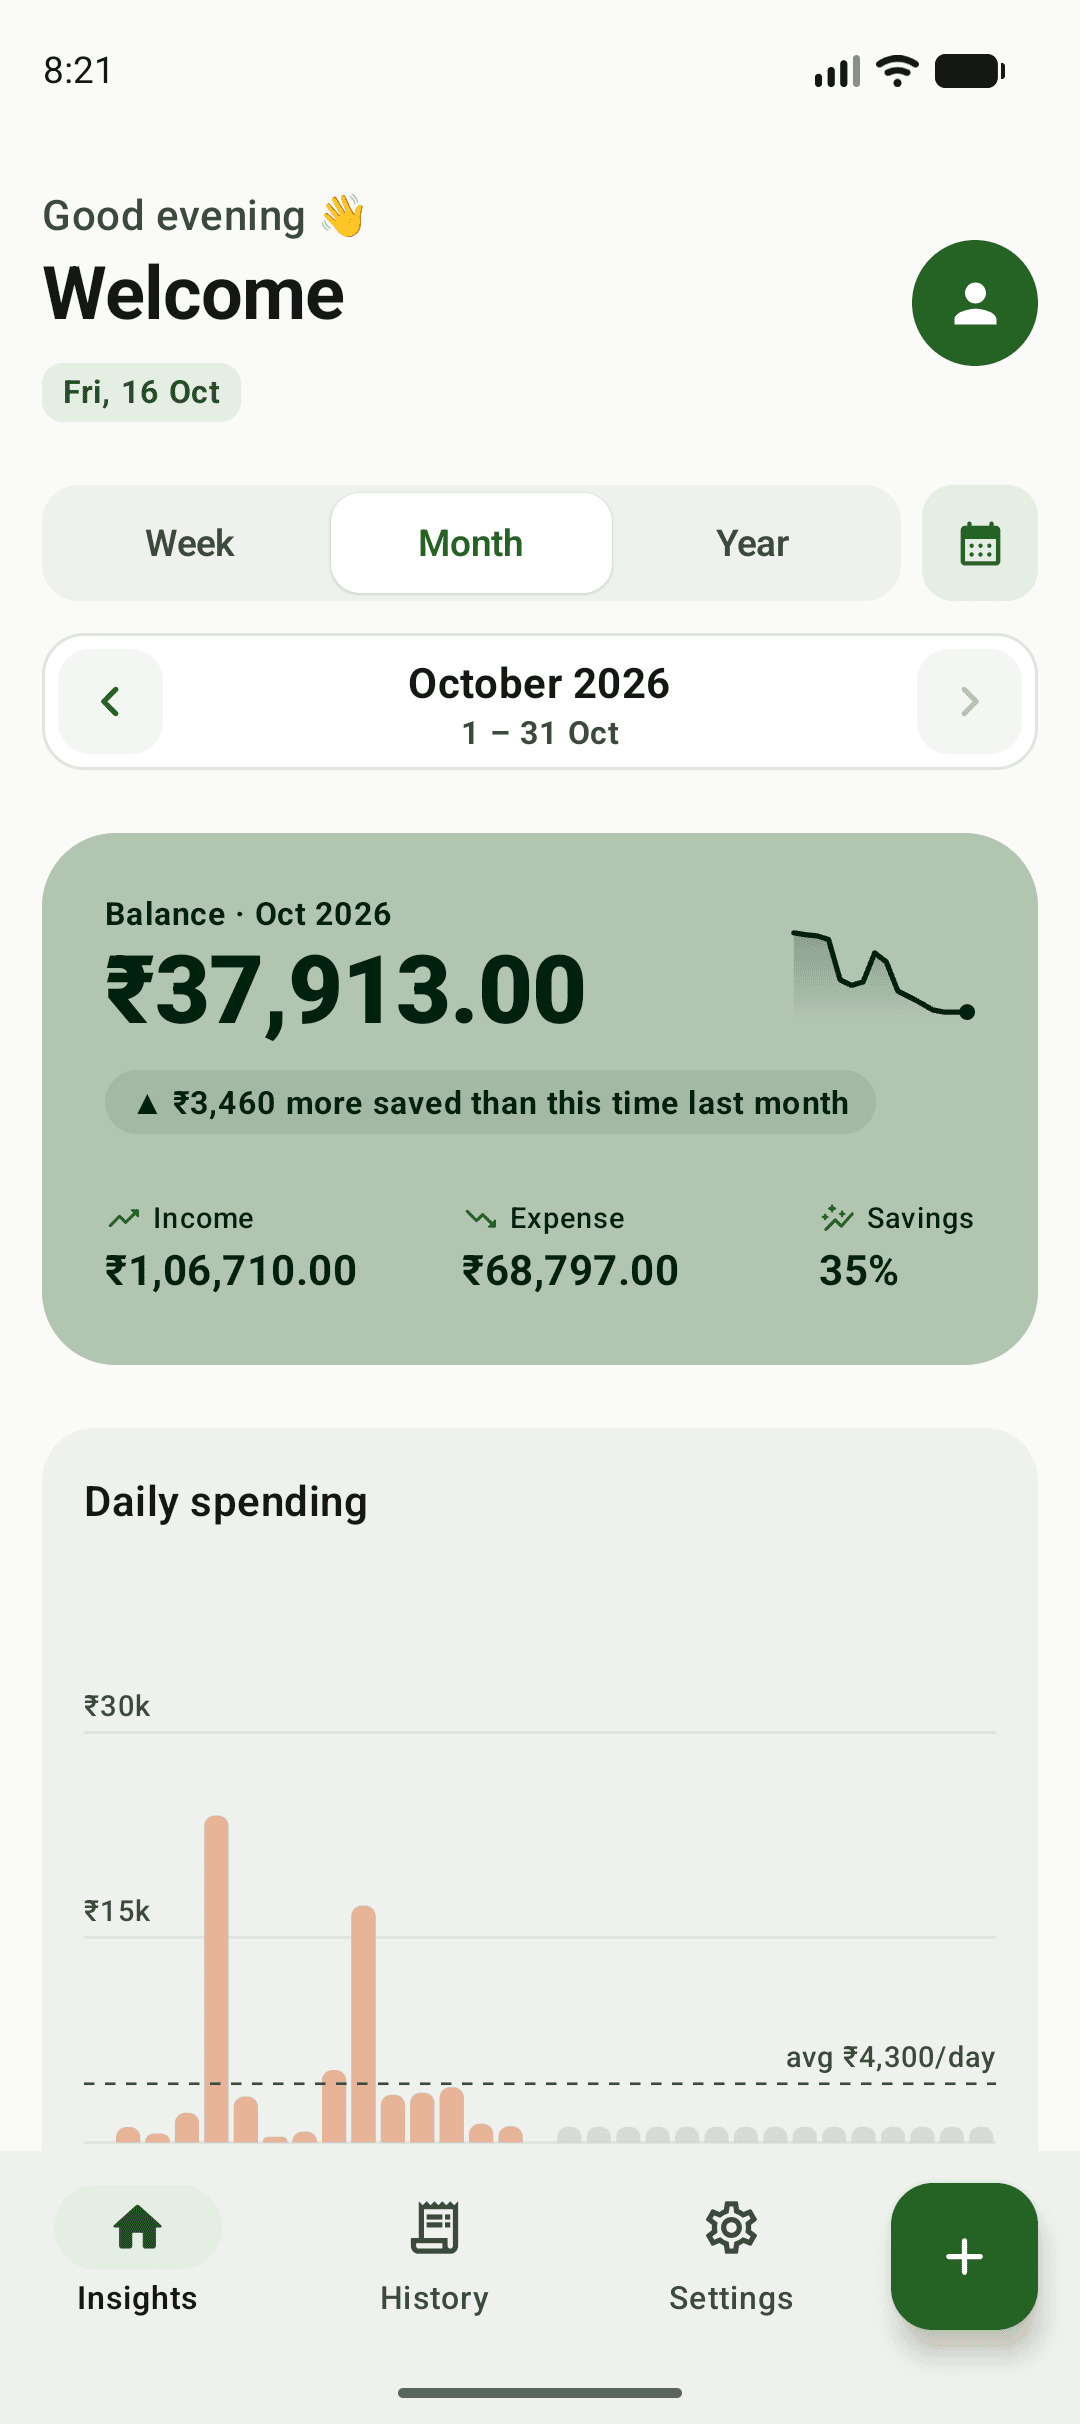
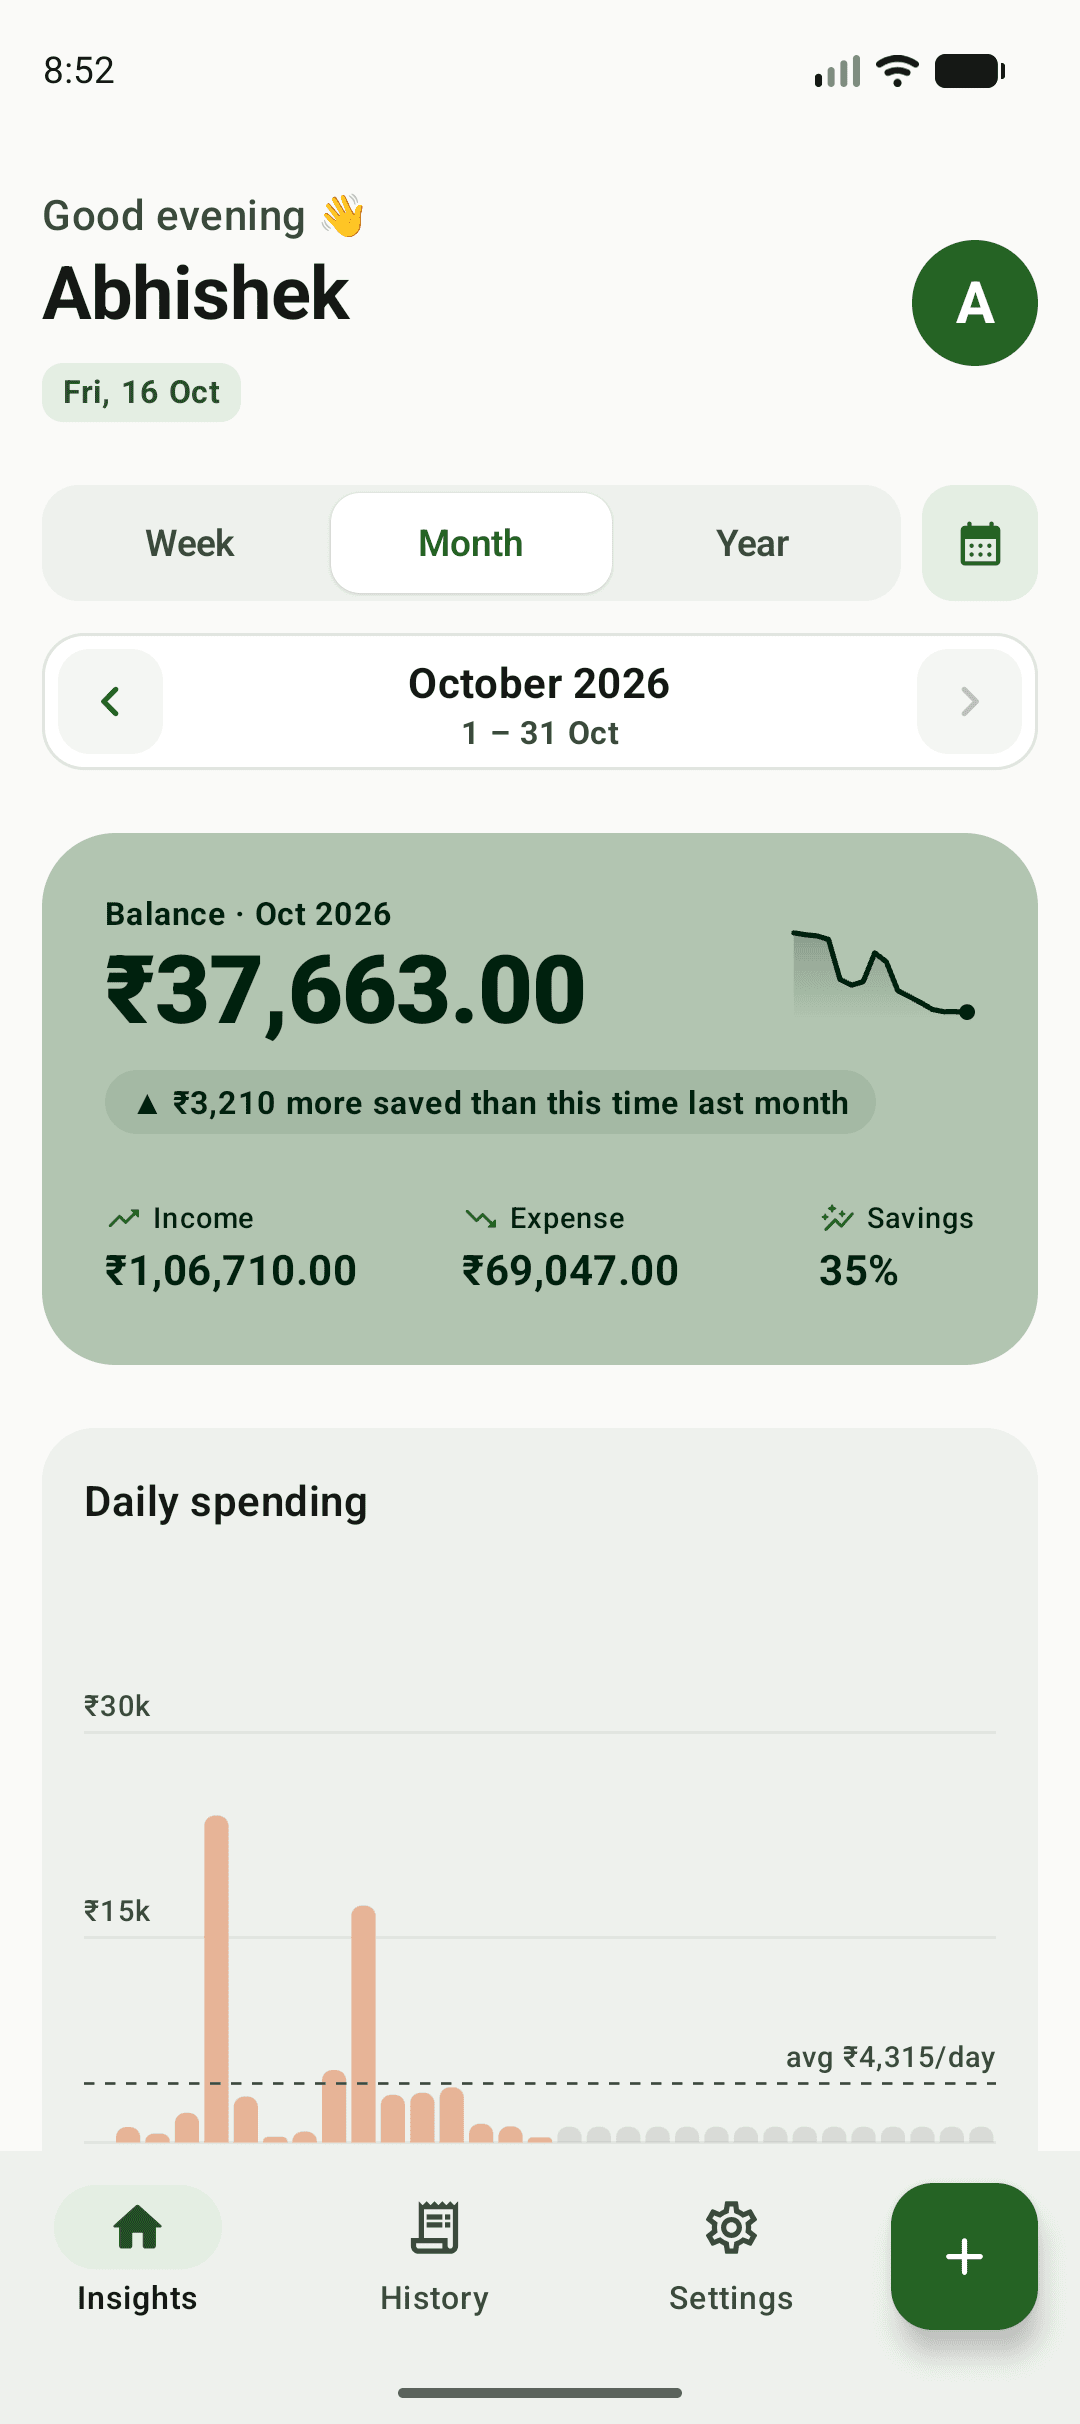
Review fixes: quick add decision line, retake settings and home

diff --git a/CLAUDE.md b/CLAUDE.md
@@ -116,7 +116,7 @@ Read `docs/architecture-decisions.md` before changing one of these. Each has its
 - A built-in category is known by its key; its name follows the app's language.
 - The language change is applied after the Language screen has closed.
 - Theme and language changes are shown with a snapshot at the root.
-- Quick add is another source of drafts.
+- Quick add is another source of drafts: a draft never overwrites what the user typed, and nothing is saved without Save (Save all included).
 - What quick add learns is a cache, not the user's data.
 - Several transactions from one sentence are saved all or none.
 - An entry mode is launched once.
